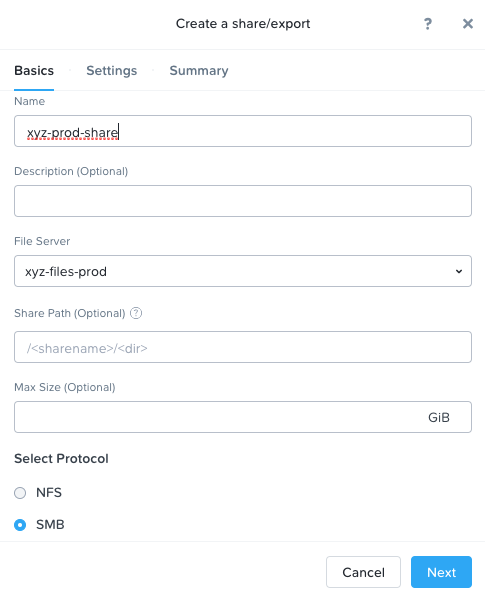
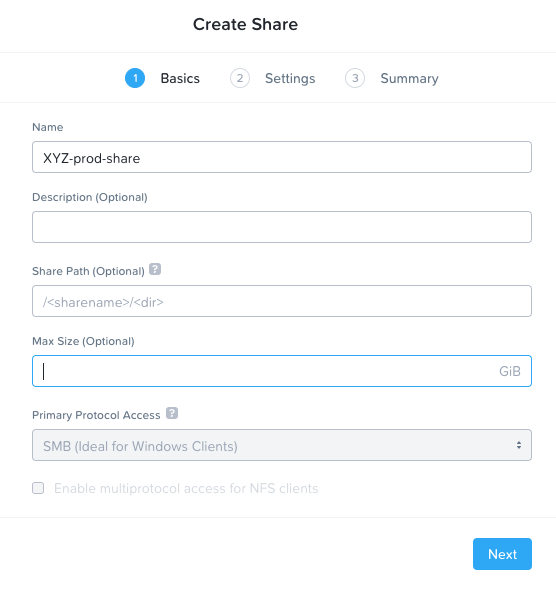
Sat 18 Dec 2021 15:34:18 JST

diff --git a/files_multiprotocol/files_multiprotocol.rst b/files_multiprotocol/files_multiprotocol.rst
@@ -16,38 +16,57 @@ A Nutanix Files share has the concept of a native and non-native protocol.  All 
 Any access requests using the non-native protocol requires a user or group mapping to the permission applied from the native side.
 There are several ways to apply user and group mappings including rule based, explicit and default mappings.  You will first configure a default mapping.
 
-#. In **Prism** > **File Server** > Select your file server and click **Protocol Management** > then click **User Mapping**
+#. In **Prism Element > File Server**, select your file server and click **Launch Files Console**.
 
-   .. figure:: images/53.png
+#. The **Files Console** will open in a new browser tab
 
-#. In the **User Mapping** dialog click **Next** at least two times, until you are on the **Default Mapping** page.
+#. Click on **Configuration > Authentication**
+
+#. Select the **User Mapping** tab
+
+#. In the **Default Mapping** click on **Edit** 
+
+   .. figure:: images/52.png
 
 #. From the **Default Mapping** page choose both **Deny access to NFS export** and **Deny access to SMB share** as the defaults for when no mapping is found.
 
-   .. figure:: images/54.png
+   .. figure:: images/52a.png
 
-#. Complete the initial mapping by choosing **Next** and then **Save** on the **Summary** page.
+#. Complete the initial mapping by clicking on **Save**
 
-#. In **Prism** > **File Server** > **Share/Export** > click on the Marketing share and select **Update**.
+#. In your BootcampFS' Files Console, click on **Shares** > *Initials*-Marketing share
 
-#. From the **Basics** page check the box at the bottom which says **Enable multiprotocol access for NFS**.
+#. Click on three dots on the right hand corner of the *Initials*-Marketing share and select **Edit**
+
+#. From the **Update Share** page check the box at the bottom which says **Enable multiprotocol access for NFS**.
 
    .. figure:: images/55.png
 
-#. Click **Next** then from the **Settings** page check **Simultaneous access to the same files from both protocols**.
+#. Click **Next** then from the **Settings** page check **Allow Simultaneous access to the same files from both protocols**.
 
    .. figure:: images/56.png
 
-#. Click **Next** and then **Save** from the **Summary** page.
+#. Click **Next** and then **Update** from the **Summary** page.
 
-#. Connect via SSH to the *Initials*\ -NFS-Client VM.
+This concludes the multiprotocol configurate for your *Initials*-Marketing share
 
-#. Execute the following commands:
+Now we will try accessing the share to test multiprotocol configuration
+
+You will use a Linux Tools VM as a client for your NFS Files export.
+
+.. note:: If you haven't created a Linux Tools VM  as part of another lab, you may use these instructions here :ref:`linux_tools_vm` to create one. 
+
+#. Note the IP address of the VM in Prism, and connect via SSH using the following credentials:
+
+   - **Username** - root
+   - **Password** - nutanix/4u
+
+#. Execute the following:
 
      .. code-block:: bash
 
        [root@CentOS ~]# mkdir /filesmulti
-       [root@CentOS ~]# mount.nfs4 BootcampFS.ntnxlab.local:/Marketing /filesmulti
+       [root@CentOS ~]# mount.nfs4 BootcampFS.ntnxlab.local:/Intials-Marketing/filesmulti
        [root@CentOS ~]# dir /filesmulti
        dir: cannot open directory /filesmulti: Permission denied
        [root@CentOS ~]#
@@ -65,11 +84,15 @@ We will need to get the user ID (UID) to create the explicit mapping.
        uid=0(root) gid=0(root) groups=0(root) context=unconfined_u:unconfined_r:unconfined_t:s0-s0:c0.c1023
        [root@CentOS ~]#
 
-#. In **Prism** > **File Server** > Select your **BootcampFS** file server
+#. In **Prism Element > File Server**, select your file server and click **Launch Files Console**.
 
-#. Click **Protocol Management** > then click **User Mapping**
+#. The **Files Console** will open in a new browser tab
 
-#. Click **Next** until you are on the **Explicit Mapping** page
+#. Click on **Configuration > Authentication**
+
+#. Select the **User Mapping** tab
+
+#. Click on **Configure** on the **Explicit Mapping** pop out
 
 #. Click on **Add Manually**
 
@@ -81,18 +104,20 @@ We will need to get the user ID (UID) to create the explicit mapping.
    - **NFS ID** - UID from previous step (0 if root)
    - **User/Group** - User
 
+#. Click on the "√" mark to save the mapping 
+
    .. figure:: images/57.png
 
-#. Click **Save** under the **Actions** column
-
-#. Click **Next** until the **Summary** page and then click **Save**
+#. Click on **Save** in the **Explicit Mapping** pop out
 
 #. Click **Close**
 
-#. Go back to the NFS-Client VM and execute the following:
+#. Go back to your Linux Tools VM and execute the following:
 
      .. code-block:: bash
 
        [root@CentOS ~]# dir /filesmulti
        MyMovie.flv Sample\ Data
        [root@CentOS ~]#
+
+You have been able to successfully configure multiprotocol access for your *Initials*-Marketing share

diff --git a/files_replication/files_replication.rst b/files_replication/files_replication.rst
@@ -76,7 +76,7 @@ Click here  for instructions to enable and update :ref:`files_manager`
 Create PROD Files Server
 ..........................
 
-#. In **Prism > File Server**, click **+ File Server** to open the **New File Server Pre-Check** dialogue.
+#. In **Prism > File Server**, click **+ File Server**
 
 #. Click **Continue** on *New File Server: Pre-check* window (if it appeares)
 
@@ -98,7 +98,7 @@ Create PROD Files Server
 
    .. figure:: images/no_file_server.png
 
-#. Click on **Save**
+#. Click on **Save** and **Next**
 
 #. Select the **Primary - Managed** VLAN for the **Client Network**.
 
@@ -131,7 +131,7 @@ Create PROD Files Server
 
 #. Monitor deployment progress in **Prism > Tasks**.
 
-   Deployment should take approximately 10 minutes.
+   Deployment should take approximately 10 minutes. While it is deploying please proceed to next section.
 
    .. figure:: images/createfs_progress.png
 
@@ -155,23 +155,26 @@ Create a SMB Files Share in your PROD Files Server
 
 In this section we will create a source files shares to serve as a source and then we will replicate this share subsequently.
 
-#. Click on your Prod Files Server *intials*-fs-prod (e.g. XYZ-fs-prod)
+#. In **Prism Element > File Server**, click on your *intials*-fs-prod (e.g. XYZ-fs-prod) File Server
 
-#. Click on **+ Share/Export**
+#. Click on **Launch Files Console** (this will open in a new tab)
+
+#. Click on **Create a New Share**
 
 #. Fill in the following details:
 
    - **Name** - *intials*-prod-share （e.g. XYZ-prod-share）
-   - **Select Protocol** - SMB
+   - **Primary Protocol Access** - SMB (confirm this to be SMB) 
+   - Leave everything else as blank
    
    .. figure:: images/createshare_smb.png
 
-#. Click on **Next**
+#. Click **Next**
 
 #. In **Settings** section, select the following:
 
 	- Enable Self Service Restore
-	- Enable File System Compression
+	- Enable Compression
 	- Enable Access Based Enumeration (ABE)
    
    .. figure:: images/createshare_settings.png
@@ -211,23 +214,27 @@ The Files Manager provides the Smart DR service for Nutanix Files, which lets yo
 
 #. Click on :fa:`bars` > Services > Files
 
-.. note::
+   .. note::
 
-If Files Manager is not enabledin your Prism Central, you will need to Enable Files manager by reading the information on enabling the Files Manager and clicking **Enable Files**
+    If Files Manager is not enabled in your Prism Central, you will need to Enable Files using instruction in :ref:`files_manager`
 
-.. figure:: images/pc_files.png
+   .. figure:: images/pc_files.png
 
 #. In Files Manager, click on **Data Protection > Polices > + New Policy**
+
+   .. note::
+
+     If you are unable to see Data Protection option, you will need to upgrade Files Manager version to 2.x or above. Follow the instructions in :ref:`files_manager_upgrade` by using Nutanix LCM in Prism Central.
 
 #. Select your *intials*-fs-prod (e.g. XYZ-fs-prod) as the **Primary Location (Source File Server)**
 
    .. note::
 
-   	Selecting the source Files server will automaticall select all the shares within this files server to be protected
+   	Selecting the source Files server will automatically select all the shares within this files server to be protected
 
 #. Select your *intials*-fs-dr (e.g. XYZ-fs-dr) as the **Recovery Location (Target File Server)**
 
-#. Select the **Recovery Point Objective (RPO)** as **10** minutes. (this is the lowest you can set as of now)
+#. Select the **Recovery Point Objective (RPO)** as **10** minutes and **Start Immediately**. (this is the lowest you can set as of now)
 
    .. note::
 

diff --git a/files_file_blocking/files_file_blocking.rst b/files_file_blocking/files_file_blocking.rst
@@ -9,9 +9,11 @@ Selective File Blocking
 
 In this exercise you will configure Files to block specific file extensions for the file server and the Marketing share.
 
-#. In **Prism** > **File Server** > Select your file server and click **Update** > then click **Blocked File Types**
+#. In **Prism Element > File Server**, select your file server and click **Launch Files Console**.
 
-   .. figure:: images/47.png
+#. The **Files Console** will open in a new browser tab
+
+#. Click on **Configuration > Authentication**
 
 #. Under **Blocked File Types** enter a comma separated list of extensions like .flv,.mov and click **Save**
 

diff --git a/files_manager/files_manager.rst b/files_manager/files_manager.rst
@@ -33,6 +33,10 @@ Unable to see any new features (Data Protection)?
 
 Upgrading Files Manager in LCM might help. See the section below to upgrade Files Manager in LCM. 
 
+.. _files_manager_upgrade:
+
+.. title:: Files: Files Manager Upgrade
+
 Upgrading Files Manager
 ------------------------
 

diff --git a/files_nfs_export/files_nfs_export.rst b/files_nfs_export/files_nfs_export.rst
@@ -25,8 +25,6 @@ Enabling NFS Protocol
 
 #. Click on **Configuration > Authentication**
 
-#. Click on 
-
    .. figure:: images/29b.png
 
 #. Select **Use NFS Protocol** with **Unmanaged** User Management and Authentication, and click **Update**.

diff --git a/files_smb_share/files_smb_share.rst b/files_smb_share/files_smb_share.rst
@@ -34,7 +34,7 @@ Creating the Share
 
    .. figure:: images/13.png
 
-#. Click on **Create a New Share**
+#. Select **Shares** and click on **Next**
 
 #. Fill out the following fields:
 
